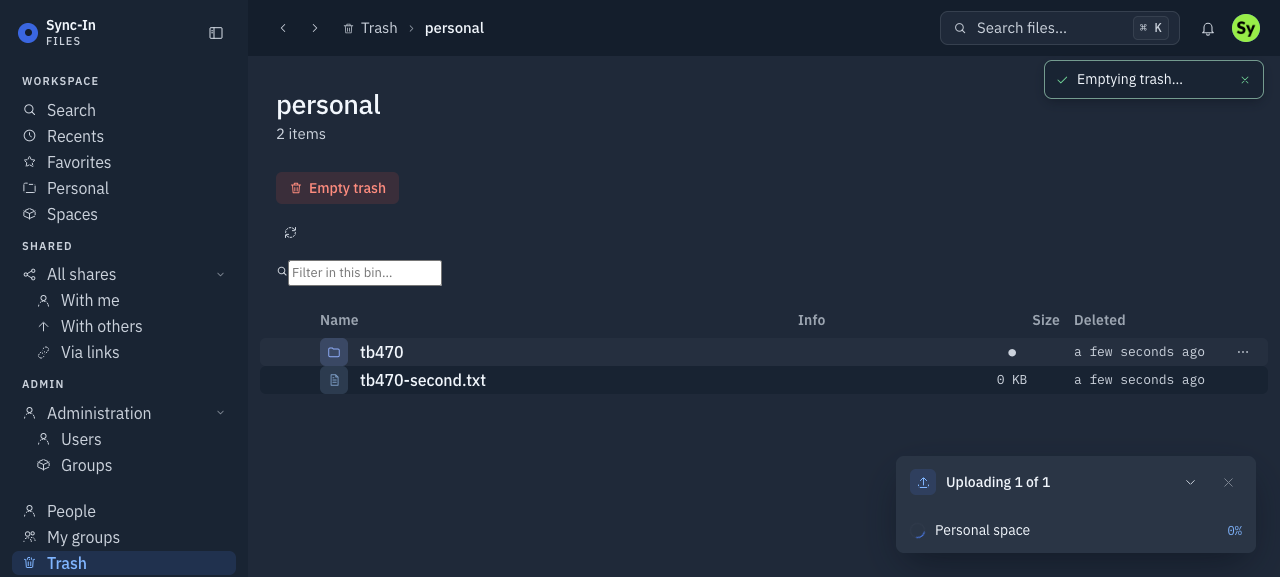
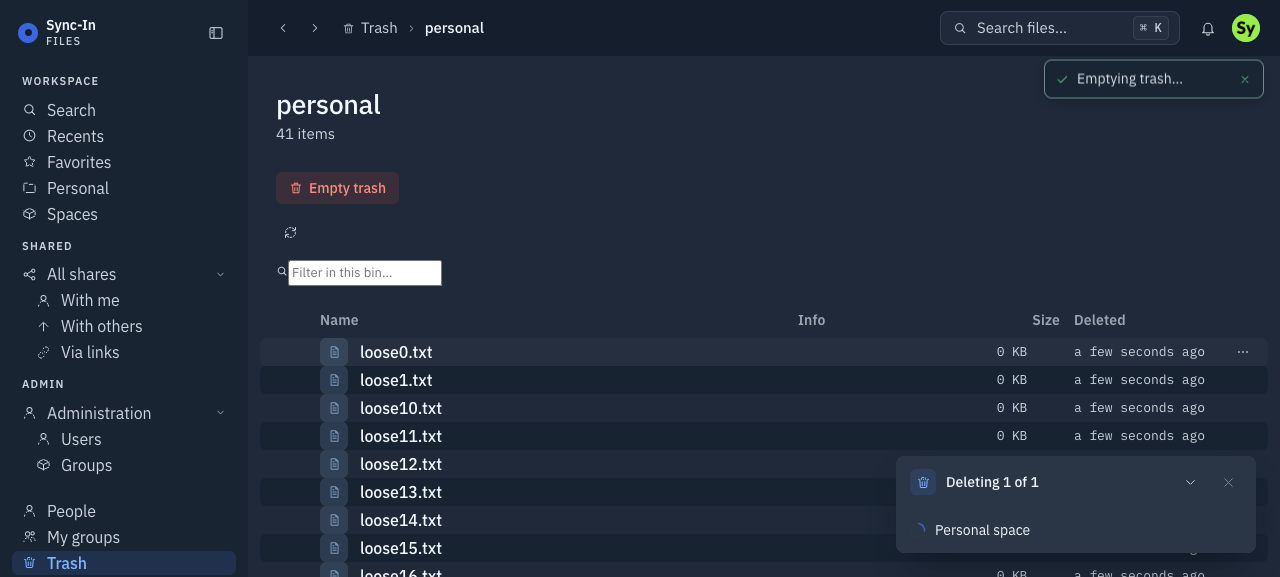
fix(custom-v2): name the dock's verb after the task, not "Uploading"
The dock is called the upload dock and carries every task type: seven
operations register in `store.filesActiveTasks` (`FilesTasksService.onDone`
enumerates them), and the header said "Uploading n of m" for all of them. So
emptying the trash announced an upload — visible the moment #470 routed it
through a tracked task, but equally wrong before that for the per-row deletes,
and for every copy, move and compress.

The verb and the mark now come from the tasks themselves, via a pure
`utils/task-labels.ts`. A batch only gets a specific verb when every task in it
agrees; a mixed batch gets the neutral one, since "Uploading 2 of 3" is worse
than saying less when one of the three is a delete. An operation with no entry
in the map falls back the same way, so the next one added cannot silently read
as an upload.

Two smaller things in the same family:

- The done / failed lines said "transfer". They are per-batch and the batch may
  be anything, so they say "task" — which is also what classic calls its
  sidebar tab.
- A row showed `0%` for the whole run when its task reports no byte total (a
  delete, a compress), which reads as a stalled upload. The percentage is shown
  only when it means something.

Browser-verified: emptying a 291-entry bin now reads "Deleting 1 of 1" under a
trash glyph, with no bogus percentage on the row.

Refs #470.

Claude-Session: https://claude.ai/code/session_013FfkmEW2HzeoHJAyrD8DhQ

diff --git a/frontend/src/app/applications/custom-v2/layout/upload-dock.component.ts b/frontend/src/app/applications/custom-v2/layout/upload-dock.component.ts
@@ -8,6 +8,7 @@ import { ButtonComponent } from '../components/button.component'
 import { IconButtonComponent } from '../components/icon-button.component'
 import { IconV2Component } from '../icons/icon-v2.component'
 import { TransfersService } from '../services/transfers.service'
+import { activeTaskLabel } from '../utils/task-labels'
 
 /**
  * The upload dock (D8) — bottom-right, 360px, collapsible to one line.
@@ -58,16 +59,21 @@ export class UploadDockComponent {
   // dock takes the success pair instead. Without this a done dock read as still busy.
   protected readonly idleAndClean = computed(() => this.agg().active === 0 && this.agg().failed === 0)
 
+  // The verb and the mark both come from what is actually running — see
+  // `utils/task-labels.ts`. The dock is named for uploads but carries every task type,
+  // and it used to say "Uploading" for all of them.
+  private readonly runningLabel = computed(() => activeTaskLabel(this.active().map((t) => t.type)))
+
   protected readonly markGlyph = computed(() => {
-    if (this.agg().active > 0) return 'upload' as const
+    if (this.agg().active > 0) return this.runningLabel().glyph
     return this.agg().failed > 0 ? ('info' as const) : ('check' as const)
   })
 
   protected readonly headline = computed(() => {
     const a = this.agg()
-    if (a.active > 0) return 'v2_uploading_n_of_m'
-    if (a.failed > 0) return a.failed === 1 ? 'v2_transfer_one_failed' : 'v2_transfer_n_failed'
-    return this.ended().length === 1 ? 'v2_transfer_one_done' : 'v2_transfer_n_done'
+    if (a.active > 0) return this.runningLabel().headline
+    if (a.failed > 0) return a.failed === 1 ? 'v2_task_one_failed' : 'v2_task_n_failed'
+    return this.ended().length === 1 ? 'v2_task_one_done' : 'v2_task_n_done'
   })
 
   protected readonly headlineParams = computed(() => {
@@ -118,6 +124,11 @@ export class UploadDockComponent {
    */
   protected nameOf(t: FileTask): string {
     return (t as FileTaskClient).displayName ?? t.name
+  }
+
+  /** Whether this task reports a byte total, i.e. whether a percentage means anything. */
+  protected hasProgress(t: FileTask): boolean {
+    return !!t.props.totalSize
   }
 
   protected percentOf(t: FileTask): number {

diff --git a/frontend/src/app/applications/custom-v2/utils/task-labels.ts b/frontend/src/app/applications/custom-v2/utils/task-labels.ts
@@ -1,0 +1,41 @@
+import { FILE_OPERATION } from '@sync-in-server/backend/src/applications/files/constants/operations'
+import type { IconV2Name } from '../icons/icon-v2.component'
+
+/** What the dock's header line says and shows while work is in flight. */
+export interface ActiveTaskLabel {
+  /** i18n key taking `{ n, m }`. */
+  headline: string
+  glyph: IconV2Name
+}
+
+/**
+ * The dock is named for uploads and used by everything.
+ *
+ * `TransfersService` publishes every task in `store.filesActiveTasks`, and seven
+ * operations register there (`FilesTasksService.onDone` enumerates them). The header
+ * nonetheless said "Uploading n of m" for all of them, so emptying the trash announced
+ * an upload. The verb comes from the tasks themselves instead.
+ *
+ * A batch is only described by a specific verb when every task in it agrees; a mixed
+ * batch gets the neutral one, because "Uploading 2 of 3" is worse than saying less when
+ * one of the three is a delete.
+ */
+const BY_OPERATION: Partial<Record<FILE_OPERATION, ActiveTaskLabel>> = {
+  [FILE_OPERATION.UPLOAD]: { headline: 'v2_uploading_n_of_m', glyph: 'upload' },
+  [FILE_OPERATION.DOWNLOAD]: { headline: 'v2_downloading_n_of_m', glyph: 'download' },
+  [FILE_OPERATION.DELETE]: { headline: 'v2_deleting_n_of_m', glyph: 'trash' },
+  [FILE_OPERATION.COPY]: { headline: 'v2_copying_n_of_m', glyph: 'copy' },
+  [FILE_OPERATION.MOVE]: { headline: 'v2_moving_n_of_m', glyph: 'moveTo' },
+  [FILE_OPERATION.COMPRESS]: { headline: 'v2_compressing_n_of_m', glyph: 'archive' },
+  [FILE_OPERATION.DECOMPRESS]: { headline: 'v2_decompressing_n_of_m', glyph: 'archive' }
+}
+
+/** Mixed batches, and any operation that grows a task later without landing in the map. */
+export const NEUTRAL_TASK_LABEL: ActiveTaskLabel = { headline: 'v2_working_n_of_m', glyph: 'activity' }
+
+export function activeTaskLabel(types: readonly FILE_OPERATION[]): ActiveTaskLabel {
+  if (types.length === 0) return NEUTRAL_TASK_LABEL
+  const first = types[0]
+  if (!types.every((t) => t === first)) return NEUTRAL_TASK_LABEL
+  return BY_OPERATION[first] ?? NEUTRAL_TASK_LABEL
+}

diff --git a/frontend/src/app/applications/custom-v2/utils/task-labels.spec.ts b/frontend/src/app/applications/custom-v2/utils/task-labels.spec.ts
@@ -1,0 +1,42 @@
+import { FILE_OPERATION } from '@sync-in-server/backend/src/applications/files/constants/operations'
+import { describe, expect, it } from 'vitest'
+import { activeTaskLabel, NEUTRAL_TASK_LABEL } from './task-labels'
+
+describe('activeTaskLabel', () => {
+  it('names the operation when every task in the batch agrees', () => {
+    expect(activeTaskLabel([FILE_OPERATION.DELETE])).toEqual({ headline: 'v2_deleting_n_of_m', glyph: 'trash' })
+    expect(activeTaskLabel([FILE_OPERATION.UPLOAD, FILE_OPERATION.UPLOAD])).toEqual({ headline: 'v2_uploading_n_of_m', glyph: 'upload' })
+  })
+
+  it('falls back to the neutral verb for a mixed batch', () => {
+    // "Uploading 2 of 3" while one of the three is a delete is worse than saying less.
+    expect(activeTaskLabel([FILE_OPERATION.UPLOAD, FILE_OPERATION.DELETE])).toBe(NEUTRAL_TASK_LABEL)
+  })
+
+  it('falls back for an operation that has no label yet', () => {
+    // A new operation growing a task must not read as an upload — which is the defect
+    // this module exists for, seen from the future.
+    expect(activeTaskLabel([FILE_OPERATION.LOCK])).toBe(NEUTRAL_TASK_LABEL)
+  })
+
+  it('falls back for an empty batch', () => {
+    expect(activeTaskLabel([])).toBe(NEUTRAL_TASK_LABEL)
+  })
+
+  it('covers every operation that registers a task', () => {
+    // The seven in `FilesTasksService.onDone`. If upstream adds an eighth, this fails
+    // and the neutral fallback is the deliberate choice rather than an oversight.
+    const tracked = [
+      FILE_OPERATION.DELETE,
+      FILE_OPERATION.MOVE,
+      FILE_OPERATION.COPY,
+      FILE_OPERATION.DOWNLOAD,
+      FILE_OPERATION.UPLOAD,
+      FILE_OPERATION.COMPRESS,
+      FILE_OPERATION.DECOMPRESS
+    ]
+    for (const op of tracked) {
+      expect(activeTaskLabel([op]), op).not.toBe(NEUTRAL_TASK_LABEL)
+    }
+  })
+})

diff --git a/frontend/src/app/applications/custom-v2/layout/upload-dock.component.html b/frontend/src/app/applications/custom-v2/layout/upload-dock.component.html
@@ -45,7 +45,11 @@
           <div class="dock-row">
             <span class="dock-row__spinner"></span>
             <span class="dock-row__name dock-row__name--active">{{ nameOf(t) }}</span>
-            <span class="dock-row__pct">{{ percentOf(t) }}%</span>
+            <!-- A delete or a compress reports no byte total, so a percentage would sit
+                 at 0% for the whole run and read as a stalled upload. -->
+            @if (hasProgress(t)) {
+              <span class="dock-row__pct">{{ percentOf(t) }}%</span>
+            }
             @if (canCancel(t)) {
               <app-v2-icon-btn
                 iconName="x"
